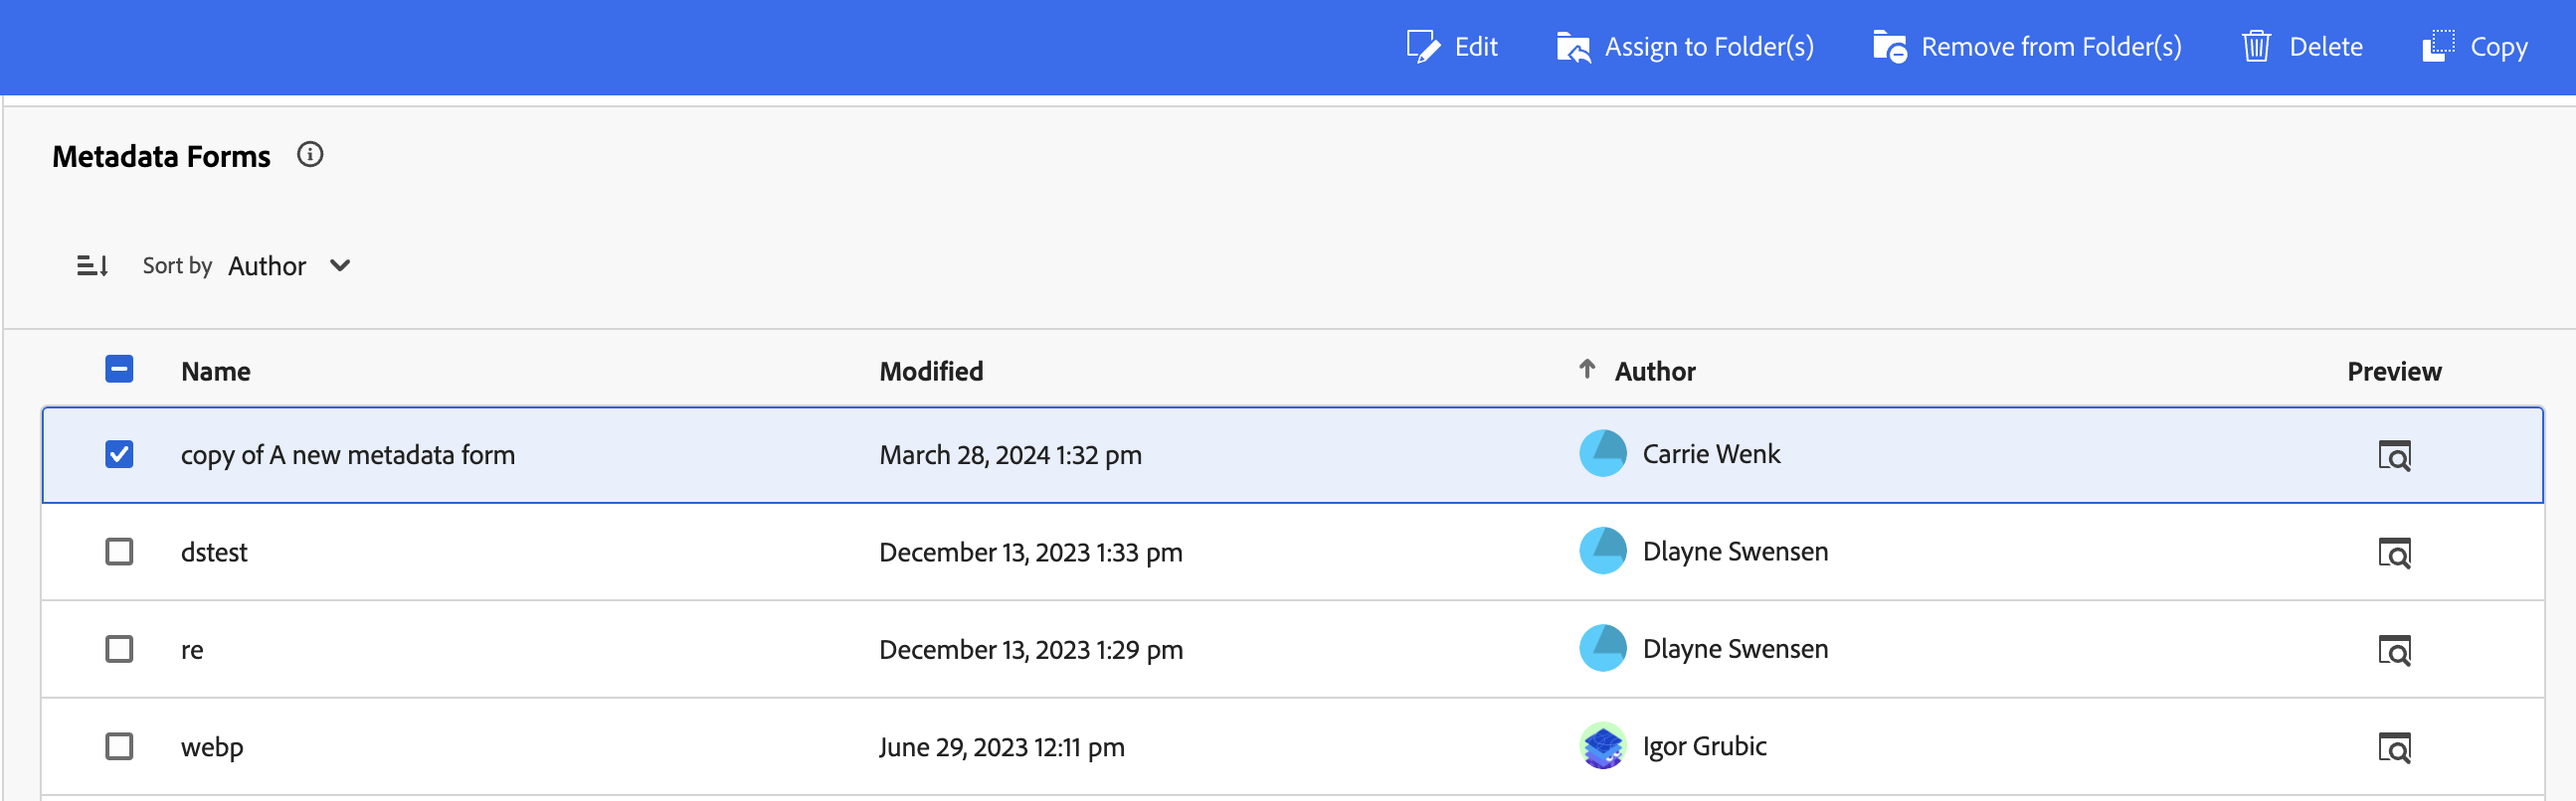
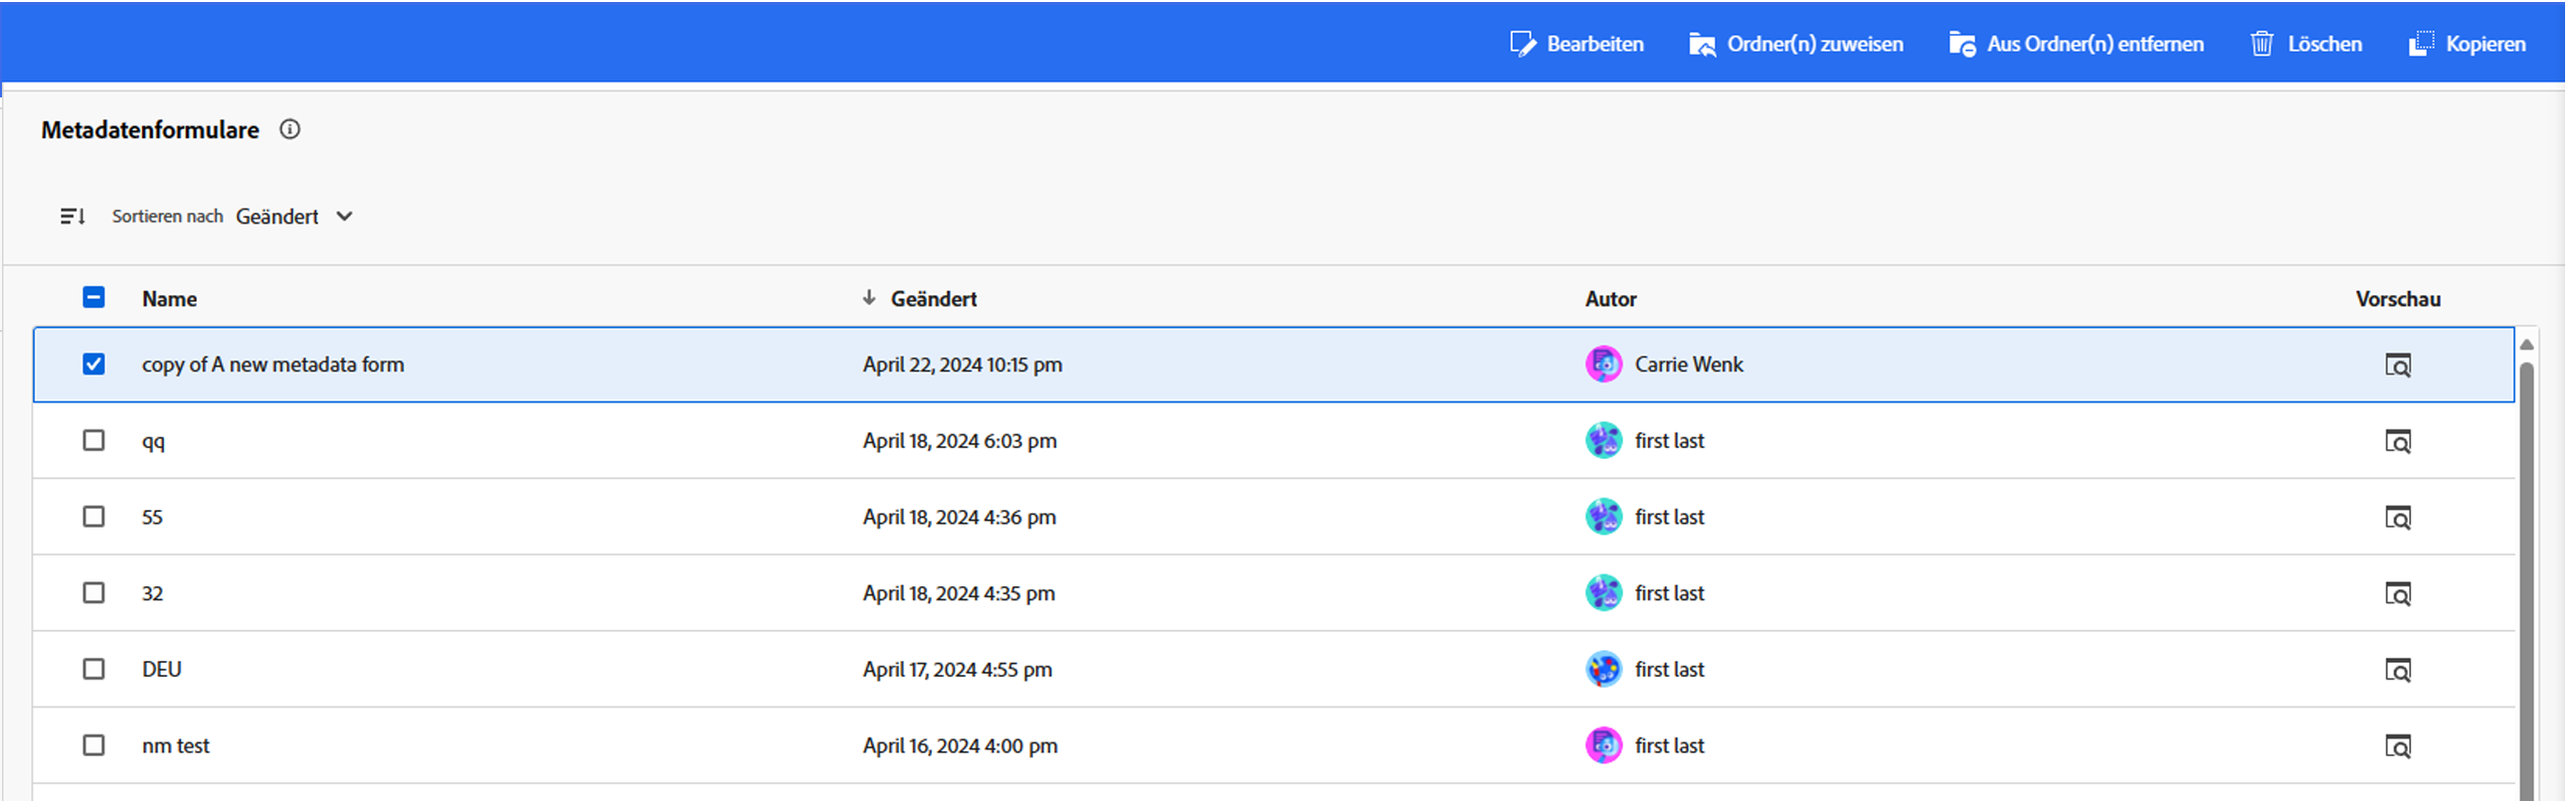
Updated by task 'AUTO_HANDOFF_1713514085526'  Changes for core/source commit https://git.corp.adobe.com/AdobeDocs/experience-manager-assets-essentials.en/commit/0038bd74fdc210ce61ab3e603d6e1c2678006d7f

Changed region(s): [[0.0, 0.3102, 0.9884, 1.0], [0.0, 0.0, 1.0, 0.2171], [0.0309, 0.2481, 0.1236, 0.2792]]

diff --git a/help/using/search.md b/help/using/search.md
@@ -4,9 +4,9 @@ description: Suchen und Auffinden von Assets in  [!DNL Assets Essentials].
 role: User
 exl-id: be9597a3-056c-436c-a09e-15a03567c85a
 source-git-commit: 0da570c129407b6ecaf3e41223f61ce279a308d0
-workflow-type: tm+mt
+workflow-type: ht
 source-wordcount: '1890'
-ht-degree: 81%
+ht-degree: 100%
 
 ---
 
@@ -205,9 +205,9 @@ Sie können die Assets auswählen, die in den Suchergebnissen angezeigt werden, 
 
 * **Aufgaben zuweisen**: Weisen Sie Benutzenden Aufgaben für ein Asset zu.
 
-* **Beobachten**: [Überwachen Sie Vorgänge](https://experienceleague.adobe.com/en/docs/experience-manager-cloud-service/content/assets/manage/search-assets), die für ein Asset durchgeführt werden.
+* **Beobachten**: [Überwachen Sie Vorgänge](https://experienceleague.adobe.com/de/docs/experience-manager-cloud-service/content/assets/manage/search-assets), die für ein Asset durchgeführt werden.
 
-## Konfigurieren der ersten Suchseite {#configuring-search-first-homepage}
+## Konfigurieren der Startseite für die erste Suche {#configuring-search-first-homepage}
 
 Mit Assets Essentials können Sie die Standard-Landingpage Ihres Unternehmens auswählen. Bei der Verwendung der ersten Suche als Startseite haben Sie auch die Möglichkeit, das Branding der Seite anzupassen, indem Sie den Hintergrund und die Logo-Bilder so konfigurieren, dass sie Ihrer Marke entsprechen.
 
@@ -242,26 +242,26 @@ Sie können eine Vorschau anzeigen, um das Layout und die Formatierung der Start
 
 ## Kontextsuche {#contextual-search}
 
-Sie können auch im Repository verfügbare Assets durchsuchen, indem Sie Textaufforderungen definieren. Experience Manager Assets wandelt diese Textaufforderungen automatisch in Suchfilter um und zeigt die Suchergebnisse an. Mithilfe des Bedienfelds &quot;Filter&quot;können Sie automatische Filter anzeigen und ändern, um die Suchergebnisse weiter einzugrenzen.
+Sie können auch im Repository verfügbare Assets durchsuchen, indem Sie Text-Prompts definieren. Experience Manager Assets wandelt diese Text-Prompts automatisch in Suchfilter um und zeigt die Suchergebnisse an. Im Bereich „Filter“ können Sie automatische Filter anzeigen und ändern, um die Suchergebnisse weiter einzugrenzen.
 
 ### Zugriff auf die Kontextsuche {#access-contextual-search}
 
 So greifen Sie auf die Kontextsuche in Experience Manager Assets zu:
 
-1. Klicks **[!UICONTROL Suche]** im linken Bereich.
+1. Klicken Sie im linken Bereich auf **[!UICONTROL Suchen]**.
 
    ![Kontextsuche](/help/using/assets/access-contextual-search.png)
 
-1. Definieren Sie die Textaufforderung im Textfeld Suchen und klicken Sie auf **[!UICONTROL Kontextsuche]**.
+1. Definieren Sie im Textfeld „Suchen“ das Text-Prompt und klicken Sie auf **[!UICONTROL Kontextsuche]**.
 
-   ![Textaufforderung für Kontextsuche](/help/using/assets/contextual-search-text-prompt.png)
+   ![Text-Prompt für die Kontextsuche](/help/using/assets/contextual-search-text-prompt.png)
 
    [!DNL Experience Manager Assets] zeigt die Suchergebnisse an.
 
 
 ### Unterstützte Filter {#supported-filters}
 
-Die Kontextsuche unterstützt standardmäßig die folgenden Filter. Stützen Sie Ihre Textanforderungen auf diese Filter, um die entsprechenden Suchergebnisse anzuzeigen.
+Die Kontextsuche unterstützt standardmäßig die folgenden Filter. Stützen Sie Ihr Text-Prompt auf diese Filter, um entsprechende Suchergebnisse anzuzeigen.
 
 * Bildhöhe
 
@@ -277,51 +277,51 @@ Die Kontextsuche unterstützt standardmäßig die folgenden Filter. Stützen Sie
 
 * Ablaufdatum
 
-* Asset-Status: Genehmigt, Abgelehnt oder alle
+* Asset-Status: „Genehmigt“, „Abgelehnt“ oder alle
 
 * Abgelaufene Assets
 
-### Beispiele für die Textaufforderungen {#text-prompts-examples}
+### Beispiele für die Text-Prompts {#text-prompts-examples}
 
 **Beispiel 1**
 
-**Textaufforderung**: In diesem Monat erstellte Bilder.
+**Text-Prompt**: In diesem Monat erstellte Bilder.
 
 [!DNL Experience Manager Assets] wendet die folgenden Filter automatisch an und zeigt die Suchergebnisse an:
 
-![Beispiel einer Kontextsuche 1](/help/using/assets/contextual-search-example1.png)
+![Beispiel 1 für eine Kontextsuche](/help/using/assets/contextual-search-example1.png)
 
 **Beispiel 2**
 
-**Textaufforderung**: Bilder von mindestens 200px Höhe und 100px Breite mit Strand und klarem Himmel.
+**Text-Prompt**: Bilder, die mindestens 200 px hoch und 100 px breit sind und Strand und klaren Himmel zeigen.
 
 [!DNL Experience Manager Assets] wendet die folgenden Filter automatisch an und zeigt die Suchergebnisse an:
 
-![Beispiel für eine Kontextsuche 2](/help/using/assets/contextual-search-example2.png)
+![Beispiel 2 für eine Kontextsuche](/help/using/assets/contextual-search-example2.png)
 
 **Beispiel 3**
 
-**Textaufforderung**: Ich brauche Bilder von blauem Himmel mit einer Höhe von 1500 und 2500 Pixel, die im letzten Monat erstellt wurden und noch nicht abgelaufen und genehmigt sind.
+**Text-Prompt**: Ich benötige Bilder von blauem Himmel mit einer Höhe von 1500 und 2500 Pixel, die im letzten Monat erstellt wurden und noch nicht abgelaufen und genehmigt sind.
 
 [!DNL Experience Manager Assets] wendet die folgenden Filter automatisch an und zeigt die Suchergebnisse an:
 
-![Beispiel einer Kontextsuche 3](/help/using/assets/contextual-search-example3.png)
+![Beispiel 3 für eine Kontextsuche](/help/using/assets/contextual-search-example3.png)
 
-Das folgende Video zeigt, wie der durchgängige Prozess vom Zugriff auf die Benutzeroberfläche der kontextuellen Suche über die Definition von Textanforderungen bis hin zur Anzeige der Suchergebnisse reicht.
+Das folgende Video zeigt den gesamten Vorgang vom Zugriff auf die Benutzeroberfläche für die Kontextsuche über das Definieren des Text-Prompts bis zum Anzeigen der Suchergebnisse.
 
 >[!VIDEO](https://video.tv.adobe.com/v/3428407)
 
-### Kontextsuche deaktivieren {#disable-contextual-search}
+### Deaktivieren der Kontextsuche {#disable-contextual-search}
 
-Administratoren haben auch die Möglichkeit, die Kontextsuche für Benutzer in Ihrer Organisation zu deaktivieren. Führen Sie dazu die folgenden Schritte aus:
+Admins haben auch die Möglichkeit, die Kontextsuche für Benutzende in ihrer Organisation zu deaktivieren. Führen Sie dazu die folgenden Schritte aus:
 
 1. Navigieren Sie zu **[!UICONTROL Einstellungen]** > **[!UICONTROL Allgemeine Einstellungen]**.
 
-1. Im [!UICONTROL Kontextsuche] -Abschnitt, deaktivieren Sie die **[!UICONTROL Kontextsuche für Ihre Organisation aktivieren]** Deaktivieren Sie die Funktion &quot;Kontextuelle Suche&quot;für alle Benutzer in Ihrer Organisation.
+1. Deaktivieren Sie im Bereich [!UICONTROL Kontextsuche] den Umschalter für **[!UICONTROL Kontextsuche für Ihre Organisation aktivieren]**, um die Kontextsuche für alle Benutzenden in Ihrer Organisation zu deaktivieren.
 
 ### Feedback zur Kontextsuche {#contextual-search-feedback}
 
-Wenn Sie Feedback zur Funktion &quot;Kontextuelle Suche&quot;geben müssen, klicken Sie auf ![Symbol &quot;Kontextsuche&quot;](assets/do-not-localize/contextual-search-icon.png)  und klicken Sie auf das Symbol Feedback . Wählen Sie den Feedback-Typ aus, geben Sie den Betreff und die Beschreibung an und klicken Sie auf **[!UICONTROL Einsenden]**.
+Um Feedback zur Kontextsuche zu geben, klicken Sie auf das Symbol für die ![Kontextsuche](assets/do-not-localize/contextual-search-icon.png) und anschließend auf das Feedback-Symbol. Wählen Sie den Feedback-Typ aus, geben Sie den Betreff und die Beschreibung ein und klicken Sie auf **[!UICONTROL Absenden]**.
 
 ![Feedback zur Kontextsuche](/help/using/assets/contextual-search-feedback.png)
 

diff --git a/help/using/metadata.md b/help/using/metadata.md
@@ -5,9 +5,9 @@ role: User,Leader,Admin,Architect,Developer
 contentOwner: AG
 exl-id: cfc105d1-41fc-4418-9905-b2a28a348682
 source-git-commit: 37beb971f1e675162eb4b8e9ab008b20a241c066
-workflow-type: tm+mt
+workflow-type: ht
 source-wordcount: '1773'
-ht-degree: 92%
+ht-degree: 100%
 
 ---
 
@@ -134,7 +134,7 @@ Nachfolgend finden Sie eine Übersicht über die einzelnen Eigenschaftstypen und
 | Keywords | Fügt freie Keywords hinzu (zugeordnet zu „dc:subject“). |
 | Smart-Tags | Fügt automatisch Metadaten-Tags hinzu, um Suchfunktionen zu ergänzen. |
 
-### Zuweisen von Metadatenformularen zu Ordnern {#assign-metadata-form-folder}
+### Zuweisen eines Metadatenformulars zu Ordnern {#assign-metadata-form-folder}
 
 Sie können in Ihrer Assets Essentials-Bereitstellung auch ein Metadatenformular einem Ordner zuweisen. Das Metadatenformular, das einem Ordner gemäß dem MIME-Typ zugewiesen wurde, wird überschrieben, wenn Sie ein Metadatenformular manuell auf einen Ordner anwenden. Alle Assets im Ordner, einschließlich Assets in den Unterordnern, zeigen dann die im Metadatenformular definierten Eigenschaften an.
 
@@ -142,7 +142,7 @@ So weisen Sie ein Metadatenformular einem Ordner zu:
 
 1. Navigieren Sie zu **[!UICONTROL Einstellungen]** > **[!UICONTROL Metadatenformulare]** und wählen Sie ein Metadatenformular aus.
 
-2. Klicks **[!UICONTROL Zuweisen zu Ordnern]**.
+2. Klicken Sie auf **[!UICONTROL Ordner(n) zuweisen]**.
 
 3. Wählen Sie die Ordner aus und klicken Sie auf **[!UICONTROL Zuweisen]**. Sie können die Ordner auswählen, indem Sie auf die Ordnernamen klicken.
 
@@ -150,21 +150,21 @@ So weisen Sie ein Metadatenformular einem Ordner zu:
 
    Sie können auch zur Seite „Ordnerdetails“ navigieren und ein Metadatenformular aus den im rechten Bereich verfügbaren Ordnereigenschaften auswählen, um das Metadatenformular dem Ordner zuzuweisen.
 
-   ![Eigenschaften von Metadatenformularordnern](/help/using/assets/folder-properties-metadata-forms.png)
+   ![Metadatenformular-Ordnereigenschaften](/help/using/assets/folder-properties-metadata-forms.png)
 
-### Metadatenformular aus Ordnern entfernen {#remove-metadata-form-folder}
+### Entfernen eines Metadatenformulars aus Ordnern {#remove-metadata-form-folder}
 
-Nachdem Sie ein Metadatenformular einem oder mehreren Ordnern zugewiesen haben, können Sie mit Experience Manager Assets auch das Metadatenformular aus den ausgewählten Ordnern entfernen.
+Nachdem Sie ein Metadatenformular einem oder mehreren Ordnern zugewiesen haben, können Sie mit Experience Manager Assets auch ein Metadatenformular aus den ausgewählten Ordnern entfernen.
 
 So entfernen Sie ein Metadatenformular aus einem Ordner:
 
 1. Navigieren Sie zu **[!UICONTROL Einstellungen]** > **[!UICONTROL Metadatenformulare]** und wählen Sie ein Metadatenformular aus.
 
-1. Klicks **[!UICONTROL Aus Ordner entfernen]**. Die Liste der zugewiesenen Ordner für die Anzeige des Metadatenformulars.
+1. Klicken Sie auf **[!UICONTROL Aus Ordner(n) entfernen]**. Die Liste der zugewiesenen Ordner für das Metadatenformular wird angezeigt.
 
 1. Wählen Sie den Ordner aus und klicken Sie auf **[!UICONTROL Entfernen]**. Sie können auch mehrere Ordner aus der Liste auswählen.
 
-Sie können auch zur Seite mit den Ordnerdetails navigieren und **[!UICONTROL Systemzugeordnete Metadatenformulare]** aus dem **[!UICONTROL Metadaten-Forms]** -Feld, um das zugewiesene Metadatenformular aus einem Ordner zu entfernen.
+Sie können auch zur Seite mit den Ordnerdetails navigieren und im Feld **[!UICONTROL Metadatenformulare]** die Option **[!UICONTROL Systemzugeordnete Metadatenformulare]** auswählen, um das zugewiesene Metadatenformular aus einem Ordner zu entfernen.
 
 ## Nächste Schritte {#next-steps}
 

diff --git a/help/using/TOC.md b/help/using/TOC.md
@@ -10,9 +10,9 @@ feature: Assets Essentials
 role: User,Leader
 solution: Experience Manager
 source-git-commit: 9c37194a04057600fe602b4de373c21e69389a16
-workflow-type: tm+mt
+workflow-type: ht
 source-wordcount: '138'
-ht-degree: 98%
+ht-degree: 100%
 
 ---
 
@@ -25,7 +25,7 @@ ht-degree: 98%
 + [Mein Arbeitsbereich](my-workspace.md)
 + Erste Schritte mit Assets Essentials für Administrierende {#get-started-admins}
    + [Verwalten und Hinzufügen von Benutzern](deploy-administer.md)
-   + Verwalten des Ordnerzugriffs {#folder-access}
+   + Verwalten des Ordnerzugriffs{#folder-access}
       + [Verwalten von Ordnerberechtigungen](manage-permissions.md)
       + [Best Practices für die Verwaltung von Zugriffsberechtigungen](permission-management-best-practices.md)
    + [Admin-Tour für Assets Essentials für Creative Cloud Pro mit Work-Management-Lösungen](assets-essentials-cc-pro-work-management-admin-journey.md)

diff --git a/help/using/manage-permissions.md b/help/using/manage-permissions.md
@@ -3,7 +3,7 @@ title: Verwalten von Zugriffsberechtigungen für Ordner in AEM Assets Essentials
 description: Mit Assets Essentials können Administratoren die Zugriffsebenen für Ordner verwalten, die im Repository verfügbar sind. Erstellen Sie Benutzergruppen und weisen Sie diesen Gruppen Berechtigungen zum Verwalten von Zugriffsebenen zu. Als Administrator können Sie Benutzergruppen die Berechtigung zur Zugriffsberechtigungsverwaltung auch auf Ordnerebene zuweisen.
 exl-id: 5ef01dbc-87c0-4013-9367-5da3774f4f20
 source-git-commit: ec723ae4222254c64e8ddc2e03f8a523203f9f8a
-workflow-type: tm+mt
+workflow-type: ht
 source-wordcount: '1657'
 ht-degree: 100%
 
